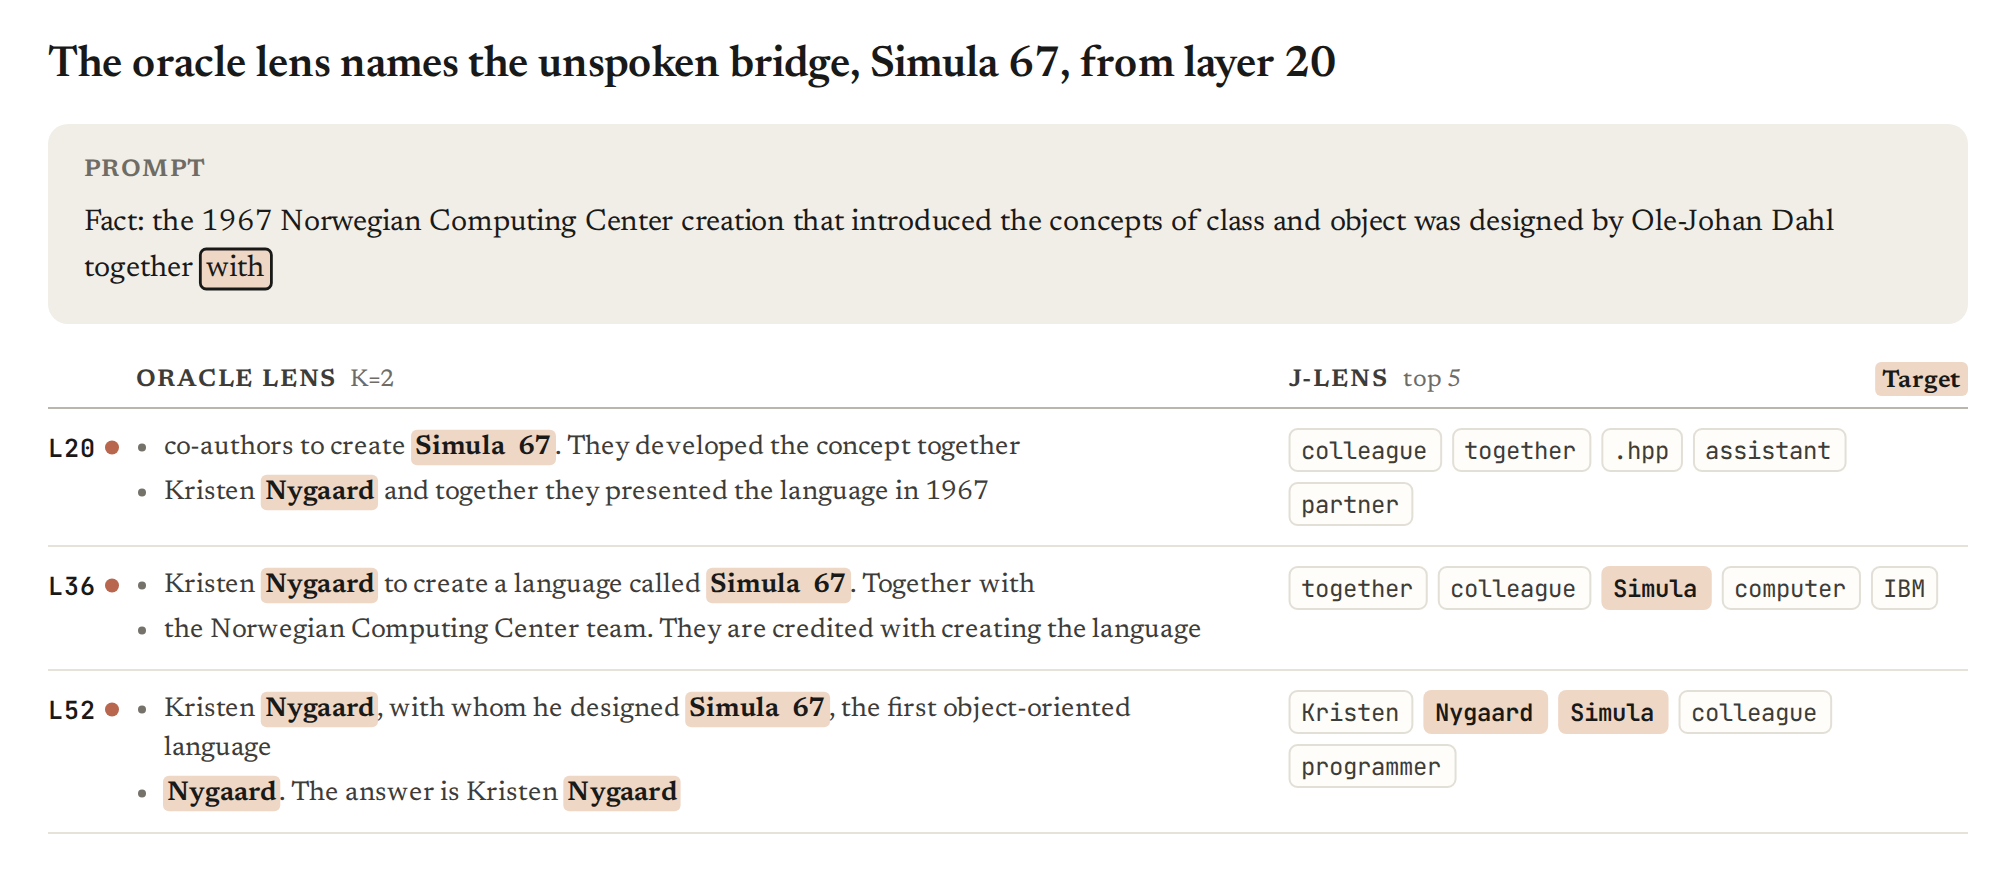
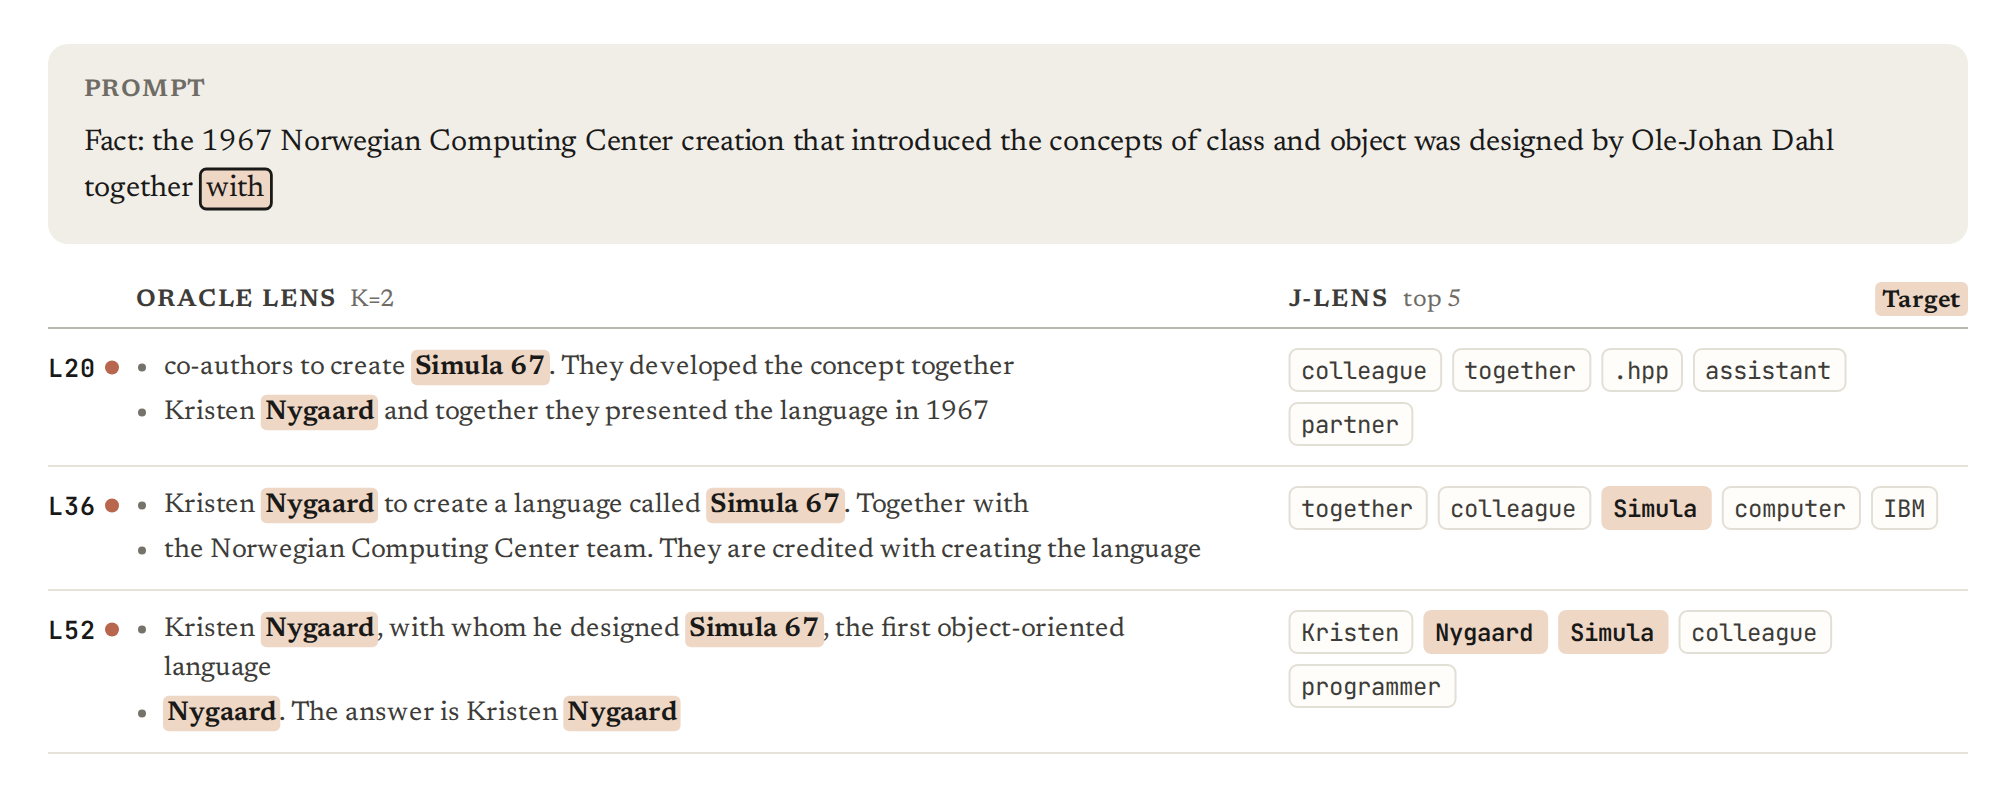
readouts: templates carry no title; the title check exempts readout figures

diff --git a/examples/34_readouts.py b/examples/34_readouts.py
@@ -4,6 +4,7 @@ A prompt with the position a lens read outlined, and what two lenses read there,
 """
 import viz
 
+# Readout templates carry no title: the caption (or the page around the figure) says what it shows.
 # The prompt as the tokenizer split it; the lens was read at "with" (index 19). Phrases and tokens are made up.
 prompt = ["Fact", ":", " the", " 1967", " Norwegian", " Computing", " Center", " creation", " that", " introduced",
           " the", " concepts", " of", " class", " and", " object", " was", " designed", " by", " Ole", "-J", "ohan",
@@ -21,6 +22,5 @@ jlens = {20: ["colleague", "together", ".hpp", "assistant", "partner"],
          52: ["Kristen", "Nygaard", "Simula", "colleague", "programmer"]}
 fig = viz.readouts(
     prompt, oracle, at=-1, compare=jlens, highlight=["Simula 67", "Simula", "Nygaard"],
-    lens="Oracle lens", lens_note="K=2", compare_label="J-lens", compare_note="top 5",
-    title="The oracle lens names the unspoken bridge, Simula 67, from layer 20")
+    lens="Oracle lens", lens_note="K=2", compare_label="J-lens", compare_note="top 5")
 fig.save("34_readouts.png")

diff --git a/src/viz/charts/readouts.py b/src/viz/charts/readouts.py
@@ -321,7 +321,8 @@ def readouts(prompt, reads, *, at=None, layers=None, compare=None, highlight=Non
     to show, in order (all of reads by default). highlight: strings to mark wherever they appear, such as the
     target. before / after: characters of prompt kept around the read token (None keeps all); the cut is marked
     with [...]. max_lines: lines per phrase before it is cut with an ellipsis (None for no limit). max_phrases,
-    max_tokens: how many phrases and comparison tokens a row shows.
+    max_tokens: how many phrases and comparison tokens a row shows. Readout figures are templates and take no
+    title: say what one shows in the caption or the page around it (title= is kept for older scripts).
     """
     terms = [highlight] if isinstance(highlight, str) else list(highlight or [])
     keys = list(layers) if layers is not None else list(reads)

diff --git a/src/viz/checks.py b/src/viz/checks.py
@@ -47,7 +47,7 @@ def reset() -> None:
 
 def _title(title: str | None, kind: str, panel: bool = False) -> list[str]:
     if not title:
-        return [] if panel or kind in ("code_card",) else ["No title: state the finding in one plain sentence."]
+        return [] if panel or kind in ("code_card", "readouts", "injection_readouts") else ["No title: state the finding in one plain sentence."]
     out = []
     t = title.strip()
     words = len(t.split())

diff --git a/examples/README.md b/examples/README.md
@@ -942,6 +942,7 @@ A prompt with the position a lens read outlined, and what two lenses read there,
 ```python
 import viz
 
+# Readout templates carry no title: the caption (or the page around the figure) says what it shows.
 # The prompt as the tokenizer split it; the lens was read at "with" (index 19). Phrases and tokens are made up.
 prompt = ["Fact", ":", " the", " 1967", " Norwegian", " Computing", " Center", " creation", " that", " introduced",
           " the", " concepts", " of", " class", " and", " object", " was", " designed", " by", " Ole", "-J", "ohan",
@@ -959,7 +960,6 @@ jlens = {20: ["colleague", "together", ".hpp", "assistant", "partner"],
          52: ["Kristen", "Nygaard", "Simula", "colleague", "programmer"]}
 fig = viz.readouts(
     prompt, oracle, at=-1, compare=jlens, highlight=["Simula 67", "Simula", "Nygaard"],
-    lens="Oracle lens", lens_note="K=2", compare_label="J-lens", compare_note="top 5",
-    title="The oracle lens names the unspoken bridge, Simula 67, from layer 20")
+    lens="Oracle lens", lens_note="K=2", compare_label="J-lens", compare_note="top 5")
 fig.save("34_readouts.png")
 ```
